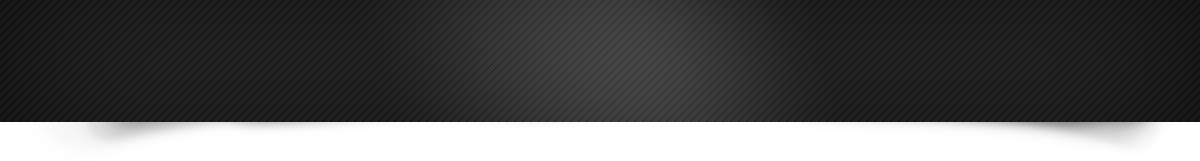
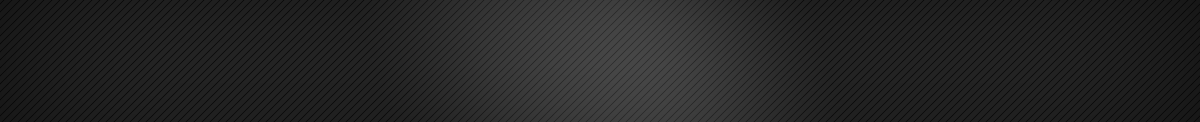
Training Page Update

Changed region(s): [[0.0, 0.7377, 1.0, 1.0]]

diff --git a/css/interior.css b/css/interior.css
@@ -15,30 +15,34 @@ body{
 	background-image: url(../img/interior-background.jpg);
 	backround-repeat: no-repeat;
 	backgrouund-size: cover;
-	position: relative;
-	left: 0em;
-	top: 0em;
-	z-index: -555;
+	
 	font-family: 'Oswald', Helvetica, Arial, sans-serif;
 	font-weight: 300;
 	font-size: 16px;
+	padding-top: 2em;
 	
 	}
+	
+
+
+	
 
 
 #title-bar{
 	
 	background-image: url(../img/title-bar.png);
-	background-size: cover;
-	background-repeat: no-repeat;
-	position: relative;
-	left: 0em;
-	top: 0em;
+	width: 100%;
+	background-position: center;
+	background-repeat: repeat-y;
+	background-size: 100%;
 	text-align: center;
+	
 
 	
 	
 	}
+	
+
 	
 	
 	
@@ -47,9 +51,9 @@ body{
 	font-family: 'Oswald', sans-serif;
 	font-size: 1.75em;
 	font-weight: 700;
-	color: #c71111;
+	color: #fff;
 	text-transform: uppercase;
-	padding-top: .75em;
+	padding-top: 1.25em;
 	
 	
 	
@@ -64,7 +68,6 @@ body{
 	font-size: 1.5em;
 	font-weight: 100;
 	color: white;
-	padding: 0em;
 	padding-bottom: 1em;
 	
 	
@@ -77,13 +80,10 @@ body{
 #content-area{
 	
 	background-color: white;
-	position: relative;
-	left: 0em;
-	top: 0em;
-	z-index: -2;
+
 	width: 80%;
-	height: 50em;
 	margin: 0em auto;
+	overflow: hidden;
 	
 	
 	
@@ -93,6 +93,7 @@ body{
 	#section-1, #section-2{
 		
 		width: 100%;
+		
 		
 		}
 		
@@ -162,3 +163,107 @@ body{
 	
 	
 	}
+	
+	
+	
+	@media only screen and (min-width: 641px) {
+		
+	body{
+		
+		
+		}	
+		
+  .address-top{
+  
+  font-size: 1.15em;
+  padding-top: .65em;
+  width: 55%;
+  float: left;
+  clear: right;
+  padding-left: 1em;
+	
+	
+	}
+	
+	
+	
+	
+		
+nav li{
+	display: inline;
+	
+	font-size: .8em;
+	font-family: 'Oswald', sans-serif;
+	font-weight: 300;
+	padding: 0em .5em;
+
+	clear: right;
+	
+	}
+		
+nav{
+	
+	text-align: left;
+	
+	}		
+		
+		
+	}
+	
+	@media only screen and (min-width: 768px){
+		.title-header{
+	font-family: 'Oswald', sans-serif;
+	font-size: 1.75em;
+	font-weight: 700;
+	color: #fff;
+	text-transform: uppercase;
+	padding-top: 2.5em;
+	
+	
+	
+	
+	}	
+	
+	
+	
+.title-sub-header{
+	
+	font-family: 'Oswald', sans-serif;
+	font-size: 1.5em;
+	font-weight: 100;
+	color: white;
+	padding-bottom: 1em;
+	
+	
+	
+	}
+		
+		
+		
+		
+		}
+		
+		
+	@media only screen and (min-width: 940px){
+		
+	.title-header{
+	font-family: 'Oswald', sans-serif;
+	font-size: 1.75em;
+	font-weight: 700;
+	color: #fff;
+	text-transform: uppercase;
+	padding-top: 3em;
+	
+	
+	
+	
+	}	
+	
+	
+	
+
+		
+		
+		
+		
+		}		

diff --git a/training.html b/training.html
@@ -33,9 +33,10 @@
         <![endif]-->
 
         <!-- Add your site or application content here -->
-        <header>
         
-       <div class="logo"><img src="img/NoelFuller-logo.png" alt="Noel Fuller Logo"> </div>
+        <header class="navbar-fixed-top">
+        
+       <div class="logo"><a href="index.html"><img src="img/NoelFuller-logo.png" alt="Noel Fuller Logo"></a> </div>
        
        <div class="address-top">(503) 775-6399 5623 SE Center St. Portland, OR 97206</div>
        

diff --git a/css/main.css b/css/main.css
@@ -1621,7 +1621,7 @@ height: 3%;
 	font-family: 'Open Sans Condensed', sans-serif;
 	color: white;
 	width:54%;
-	font-size: 1.25em;
+	font-size: 1.15em;
 	padding-top: .55em;
 	padding-left: 5em;
 	
@@ -1643,7 +1643,7 @@ nav{
 
 nav li{
 	
-		font-size: 1.1em;
+		font-size: .85em;
 		
 
 	
